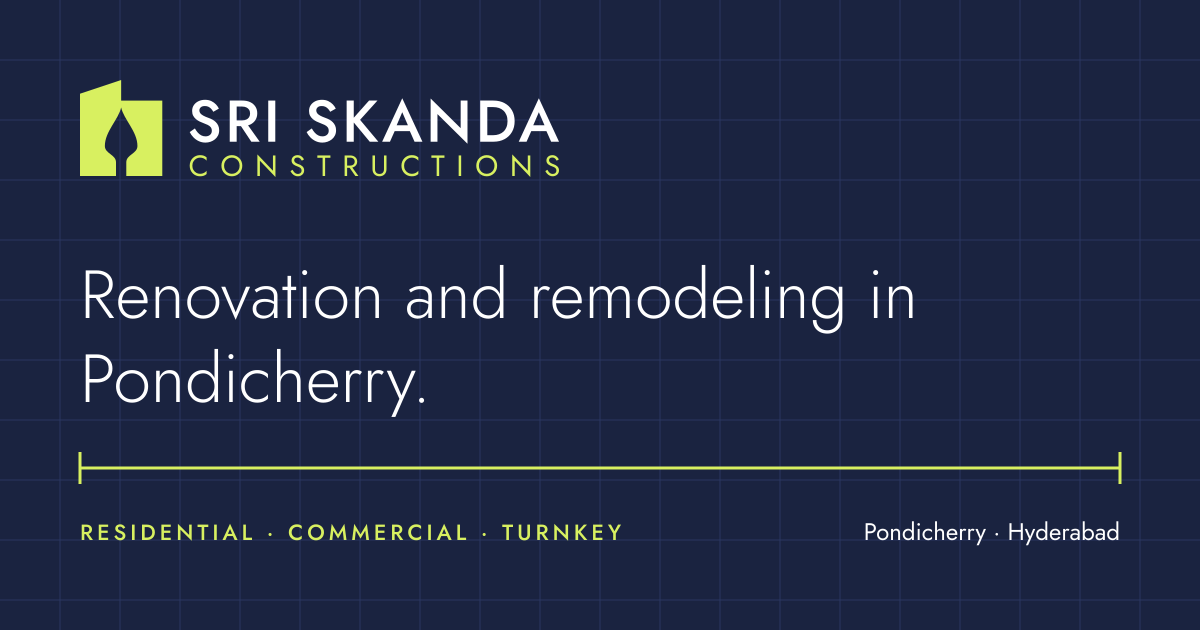
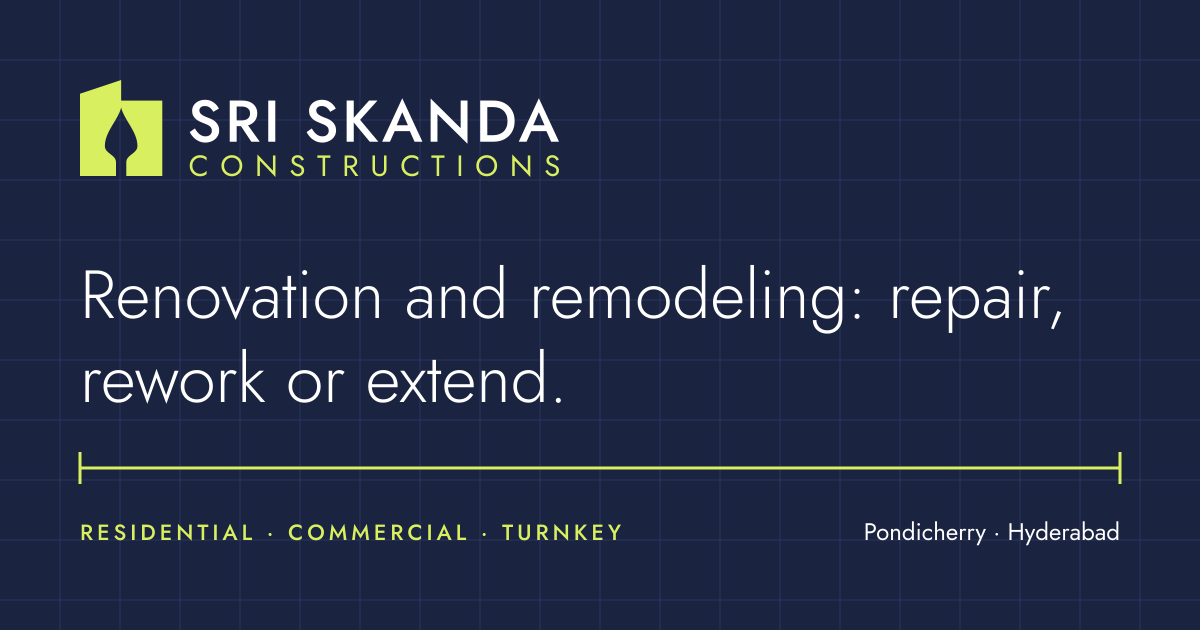
fix: name each service plainly, without tying it to one city
Service headings and questions no longer say "in Pondicherry", and the two
service addresses that carried the city name are shortened, with permanent
redirects from the old ones.

Changed region(s): [[0.0617, 0.5429, 0.4625, 0.6635], [0.7092, 0.4524, 0.8942, 0.5127]]

diff --git a/content/services.ts b/content/services.ts
@@ -41,12 +41,12 @@ export type Service = {
 
 export const services: Service[] = [
   {
-    slug: "house-construction-pondicherry",
+    slug: "house-construction",
     name: en("Residential construction"),
-    title: en("House construction in Pondicherry"),
+    title: en("House construction: custom homes, villas and apartments"),
     summary: en("Custom homes, villas and apartments, built from foundation to finishing."),
     intro: [
-      en("We build custom homes, villas and apartment buildings in and around Pondicherry. You bring the plot and what your family needs. We plan it with you, draw it, and build it."),
+      en("We build custom homes, villas and apartment buildings in Pondicherry and Hyderabad. You bring the plot and what your family needs. We plan it with you, draw it, and build it."),
       en("If Vastu matters to you, it is part of the plan from the first drawing, not something fitted in afterwards."),
     ],
     included: [
@@ -71,7 +71,7 @@ export const services: Service[] = [
     timeline: null,
     faqs: [
       {
-        q: en("How much does it cost to build a house in Pondicherry?"),
+        q: en("How much does it cost to build a house?"),
         a: en("It depends on the built-up area, the number of floors, the soil and the finish you choose. Send us your details on the estimate page and we will give you a quote after a site visit."),
       },
       {
@@ -92,9 +92,9 @@ export const services: Service[] = [
     cta: en("Ask about your house on WhatsApp"),
   },
   {
-    slug: "commercial-construction-pondicherry",
+    slug: "commercial-construction",
     name: en("Commercial construction"),
-    title: en("Commercial construction in Pondicherry"),
+    title: en("Commercial construction: offices, shops and showrooms"),
     summary: en("Offices, retail spaces, showrooms and commercial complexes."),
     intro: [
       en("We build offices, retail spaces, showrooms and commercial complexes. A commercial building has to earn its keep, so we start with how you will use it: frontage, parking, floor loads, and how customers and staff move through it."),
@@ -140,7 +140,7 @@ export const services: Service[] = [
   {
     slug: "vastu-consultation",
     name: en("Vastu consultation"),
-    title: en("Vastu consultation in Pondicherry"),
+    title: en("Vastu consultation: planned in from the first drawing"),
     summary: en("Vastu-compliant designs for homes and commercial buildings."),
     intro: [
       en("Vastu is about direction: which way the plot faces, where you enter, and where each room sits. It is far easier to get right on paper than after the walls are up, so we bring it in at the planning stage."),
@@ -229,7 +229,7 @@ export const services: Service[] = [
   {
     slug: "renovation-remodeling",
     name: en("Renovation and remodeling"),
-    title: en("Renovation and remodeling in Pondicherry"),
+    title: en("Renovation and remodeling: repair, rework or extend"),
     summary: en("Repair, rework or extend the building you already have."),
     intro: [
       en("Not every project starts with an empty plot. If your house or shop is showing its age, or no longer fits the way you live or work, we renovate and remodel existing buildings."),
@@ -306,7 +306,7 @@ export const services: Service[] = [
         a: en("The whole build, from foundation to finishing. The exact list is written into the agreement and bill of quantities, so you know what is covered before work starts."),
       },
       {
-        q: en("Is turnkey right for me if I live outside Pondicherry?"),
+        q: en("Is turnkey right for me if I live far from the site?"),
         a: en("It suits anyone who cannot be on site every day, because one team is answerable for the whole job."),
       },
       {

diff --git a/content/home.ts b/content/home.ts
@@ -106,7 +106,7 @@ export const chapters: ChapterCopy[] = [
     sheet: "S-301",
     drawing: "FRAME",
     scale: "1:100",
-    service: "house-construction-pondicherry",
+    service: "house-construction",
   },
   {
     id: "finishing",
@@ -188,12 +188,12 @@ export const typeLists: Record<"home" | "commercial", { label: L; items: L[]; se
   home: {
     label: en("Home"),
     items: [en("Custom homes"), en("Villas"), en("Apartments")],
-    service: "house-construction-pondicherry",
+    service: "house-construction",
   },
   commercial: {
     label: en("Commercial"),
     items: [en("Offices"), en("Retail spaces"), en("Showrooms"), en("Commercial complexes")],
-    service: "commercial-construction-pondicherry",
+    service: "commercial-construction",
   },
 };
 

diff --git a/next.config.ts b/next.config.ts
@@ -1,6 +1,13 @@
 import type { NextConfig } from "next";
 
 const nextConfig: NextConfig = {
+  // Old page addresses that named one city, kept working.
+  async redirects() {
+    return [
+      { source: "/services/house-construction-pondicherry", destination: "/services/house-construction", permanent: true },
+      { source: "/services/commercial-construction-pondicherry", destination: "/services/commercial-construction", permanent: true },
+    ];
+  },
   images: {
     formats: ["image/avif", "image/webp"],
     qualities: [60, 75],

diff --git a/content/about.ts b/content/about.ts
@@ -44,7 +44,7 @@ export const about = {
     },
   ] as { title: L; body: L; image: string; alt: L }[],
   baseTitle: en("Where to find us"),
-  base: en("We work from Saram, in the heart of Pondicherry. Come by, or ask us to visit your plot."),
+  base: en("Our office is in Saram, in the heart of Pondicherry. Come by, or ask us to visit your plot."),
 
   /**
    * Founder and team. Shown only when the list has entries.

diff --git a/README.md b/README.md
@@ -234,7 +234,7 @@ and the brand sheet, to `public/brand`.
 - Every page has its own title, description and share image.
 - `sitemap.xml` and `robots.txt` are generated. `/api` is excluded.
 - Structured data (JSON-LD): the business as a `GeneralContractor` with full address, phone, area served, opening hours and coordinates (once supplied), and its services; each service page adds `Service` and `FAQPage` data.
-- Service pages are written for local searches such as "house construction in Pondicherry", with genuinely useful answers rather than keyword lists.
+- Service pages answer the questions people actually search for, with genuinely useful answers rather than keyword lists. Their headings name the service only; the two markets (Pondicherry and Hyderabad) are named in the text.
 
 ---
 
